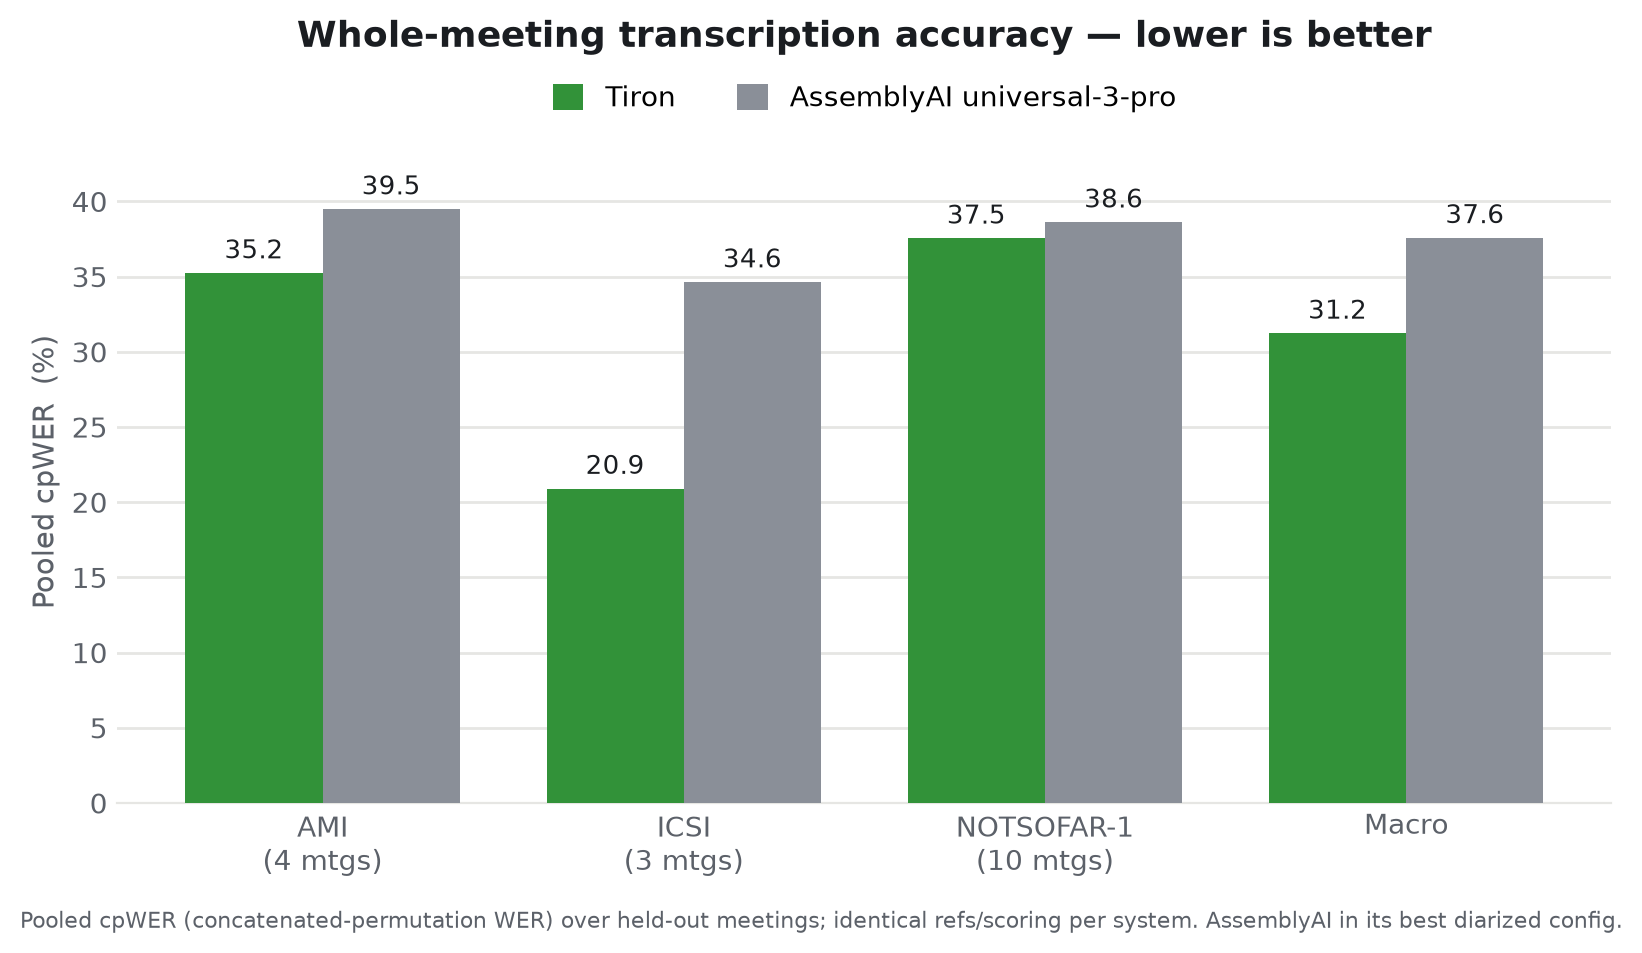
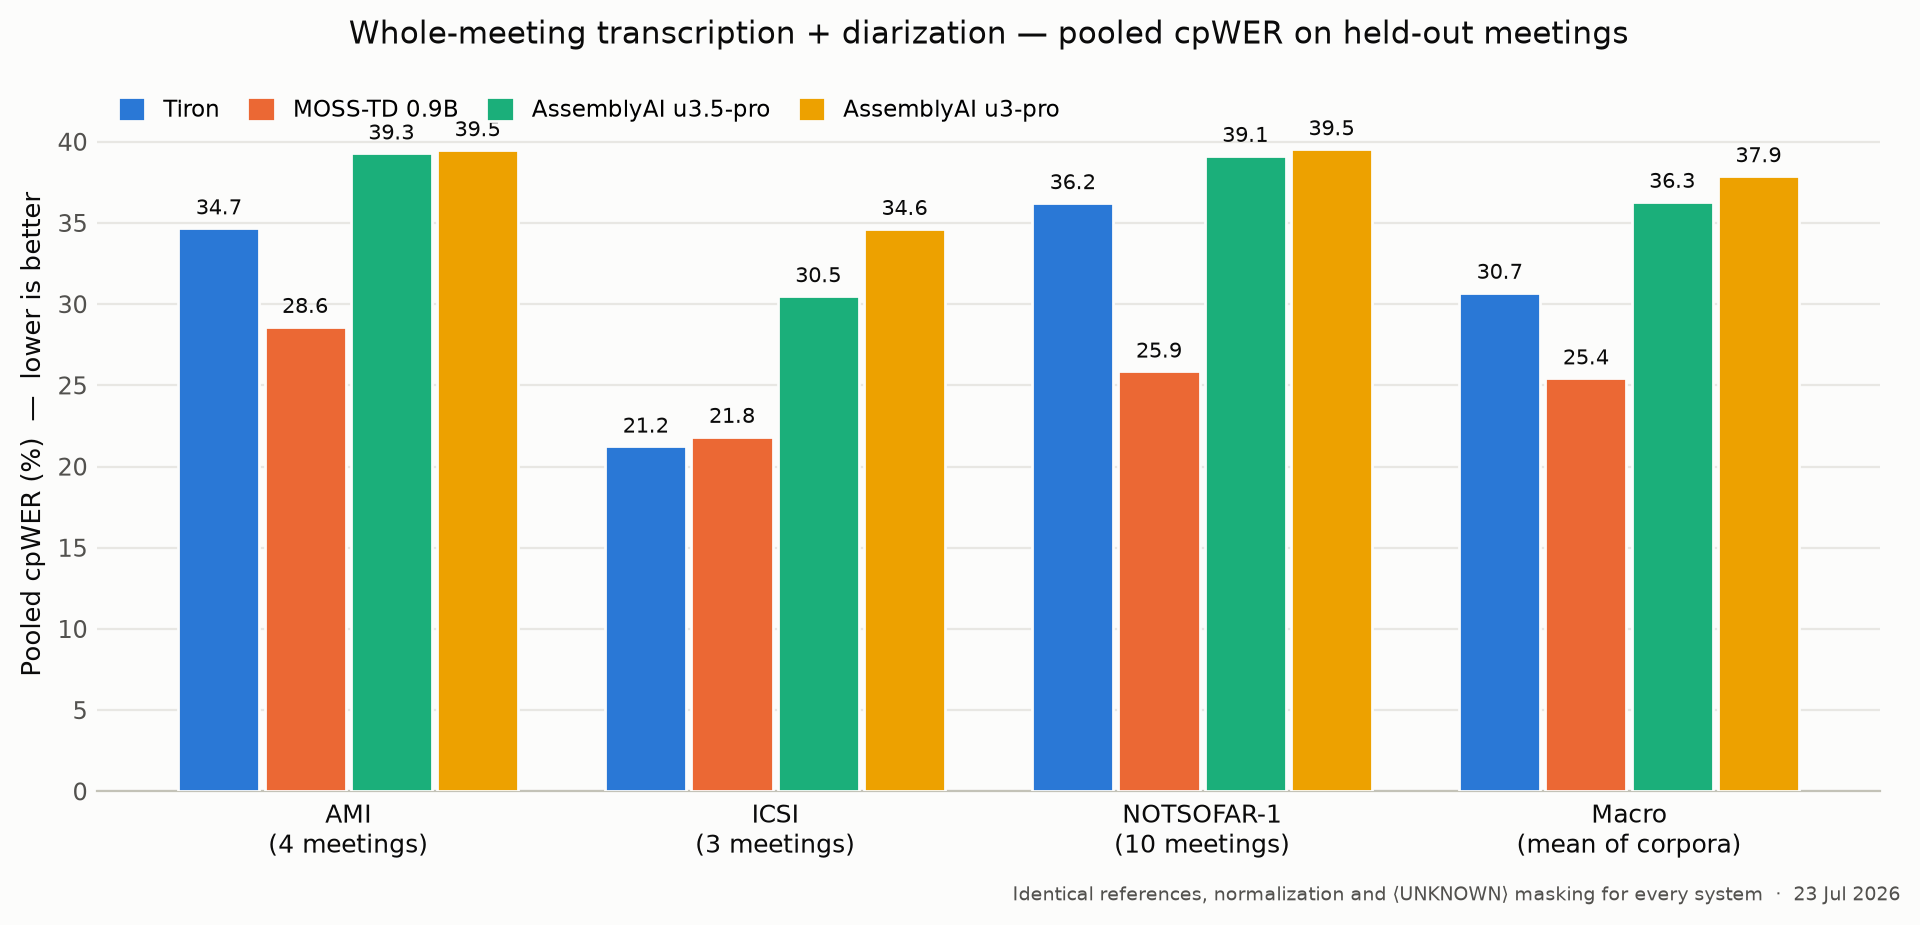
README: align with 23 Jul model card — updated checkpoint numbers, MOSS-TD comparison, new chart, eval/ link

diff --git a/README.md b/README.md
@@ -10,9 +10,9 @@ The harness turns the model's 30-second windows into whole-meeting transcripts:
 2. **Decoding** — greedy transformers decoding of each window into speaker-tagged, timestamped segments.
 3. **Speaker linking** — ECAPA voice embeddings link window-local speakers into stable meeting-level identities, with a second staggered decode pass (on by default) that calibrates the clustering threshold per meeting.
 
-Among systems that reliably transcribe entire meetings, Tiron leads every test set we evaluated. Its closest such rival, AssemblyAI `universal-3-pro`, trails on every corpus (pooled corpus cpWER, same references and scoring, lower is better): AMI 35.24 vs 39.49, ICSI 20.91 vs 34.64, NOTSOFAR-1 37.55 vs 38.62. Details and meeting IDs on the [model card](https://huggingface.co/Trelis/tiron).
+On whole-meeting benchmarks, Tiron outperforms leading commercial transcription APIs on every test set we evaluated, and trades leads with the best open research models (pooled corpus cpWER, same references and scoring, lower is better). Against AssemblyAI `universal-3-pro`: AMI 34.68 vs 39.49, ICSI 21.24 vs 34.64, NOTSOFAR-1 36.23 vs 39.55. [MOSS-Transcribe-Diarize](https://huggingface.co/OpenMOSS-Team/MOSS-Transcribe-Diarize) leads on AMI and NOTSOFAR-1, with the two effectively tied on ICSI — at ~14× less decode throughput in its quality configuration. Full table, speed comparison, and meeting IDs on the [model card](https://huggingface.co/Trelis/tiron); reproduce the numbers with the replication scripts in [`eval/`](eval/).
 
-![Tiron vs AssemblyAI universal-3-pro — pooled cpWER across AMI, ICSI, and NOTSOFAR-1 (lower is better)](docs/benchmark.png)
+![Tiron vs MOSS-TD and AssemblyAI — pooled cpWER across AMI, ICSI, and NOTSOFAR-1 (lower is better)](docs/benchmark.png)
 
 This harness uses the same grammar-constrained decoding as Trelis' hosted serving by default (disable with `--no-constrained-decoding` / `constrained_decoding=False`).
 
